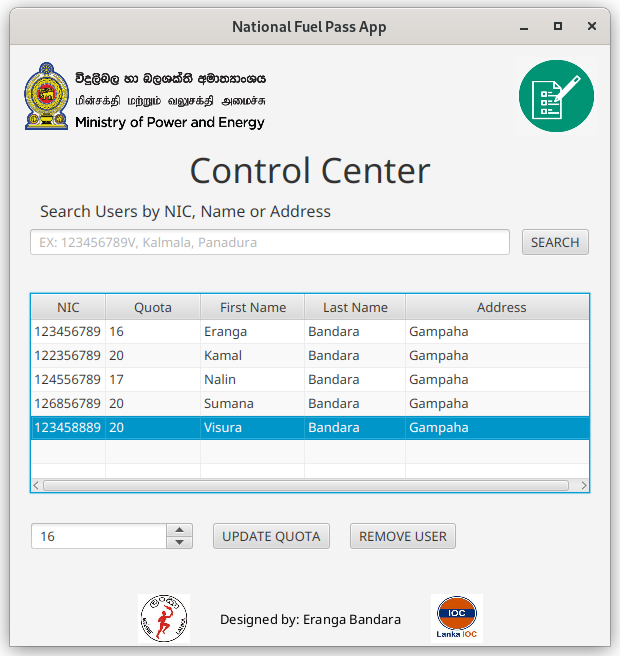
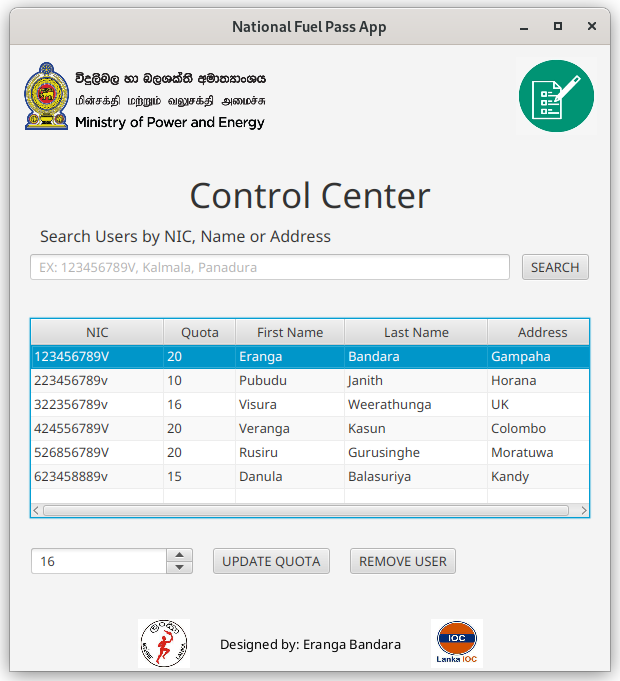
Modify README.md

diff --git a/src/main/java/db/InMemoryDB.java b/src/main/java/db/InMemoryDB.java
@@ -6,11 +6,12 @@ public class InMemoryDB {
     private static ArrayList<User> userDatabase = new ArrayList();
 
     static {
-        registerUser(new User("123456789", "Eranga","Bandara","Gampaha",20));
-        registerUser(new User("122356789", "Kamal","Bandara","Gampaha",20));
-        registerUser(new User("124556789", "Nalin","Bandara","Gampaha",20));
-        registerUser(new User("126856789", "Sumana","Bandara","Gampaha",20));
-        registerUser(new User("123458889", "Visura","Bandara","Gampaha",20));
+        registerUser(new User("123456789V", "Eranga","Bandara","Gampaha",20));
+        registerUser(new User("223456789v", "Pubudu","Janith","Horana",10));
+        registerUser(new User("322356789v", "Visura","Weerathunga","UK",16));
+        registerUser(new User("424556789V", "Veranga","Kasun","Colombo",20));
+        registerUser(new User("526856789V", "Rusiru","Gurusinghe","Moratuwa",20));
+        registerUser(new User("623458889v", "Danula","Balasuriya","Kandy",15));
     }
     public static User findUser(String nic) {
         for (User user : userDatabase) {

diff --git a/README.md b/README.md
@@ -5,7 +5,7 @@
 <div align="center">
   <a href="https://github.com/Eranga-Bandara/fuel-pass-clone-app">
   <p align="center">
-  <img src="">
+  <img src="/src/main/resources/images/img/splash-screen.png" alt="product-logo">
 </p>
 
   </a>
@@ -13,7 +13,7 @@
 <h1 align="center">FUEL PASS APP CLONE</h1>
 
   <p align="center">
-    A Java Fx clone application for national fulepass application
+    A Java Fx clone application for national fuel pass application
     <br />
     <a href="https://github.com/Eranga-Bandara/mini-game"><strong>Explore the docs »</strong></a>
     <br />
